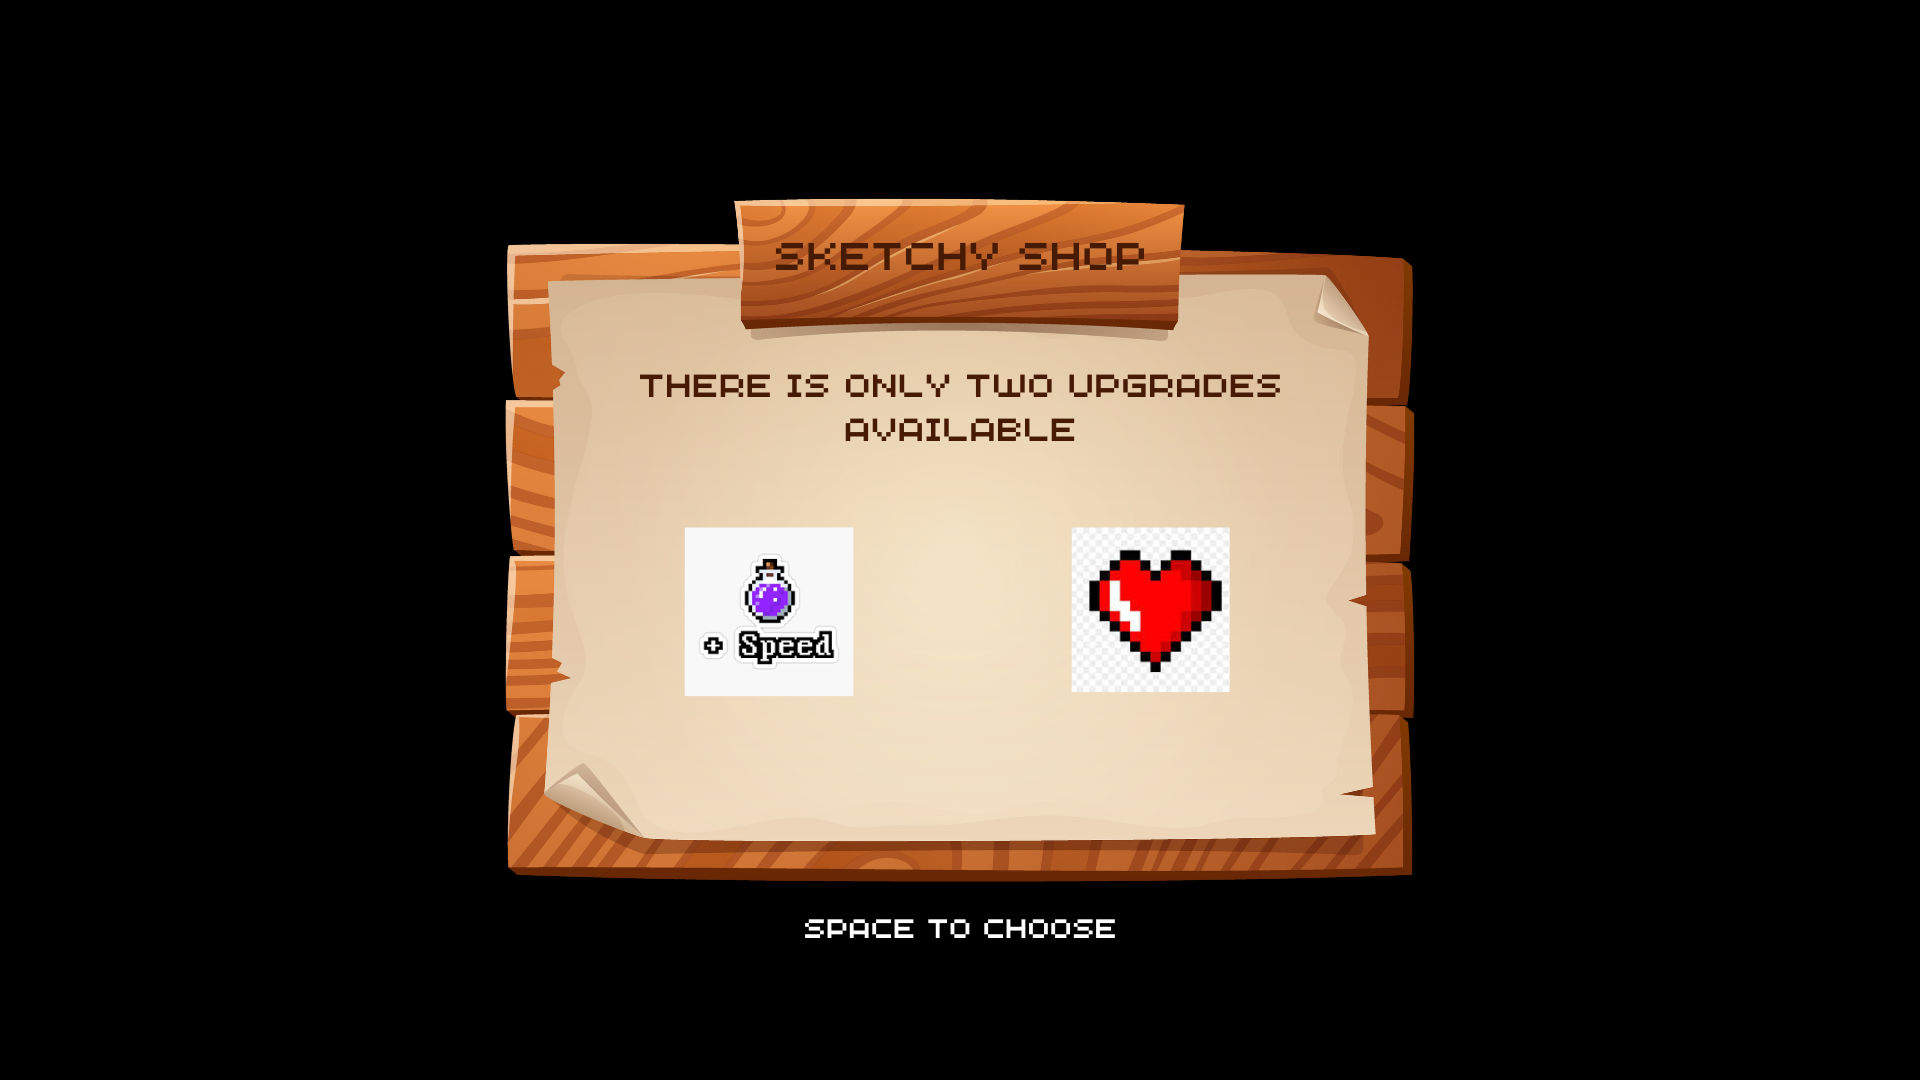
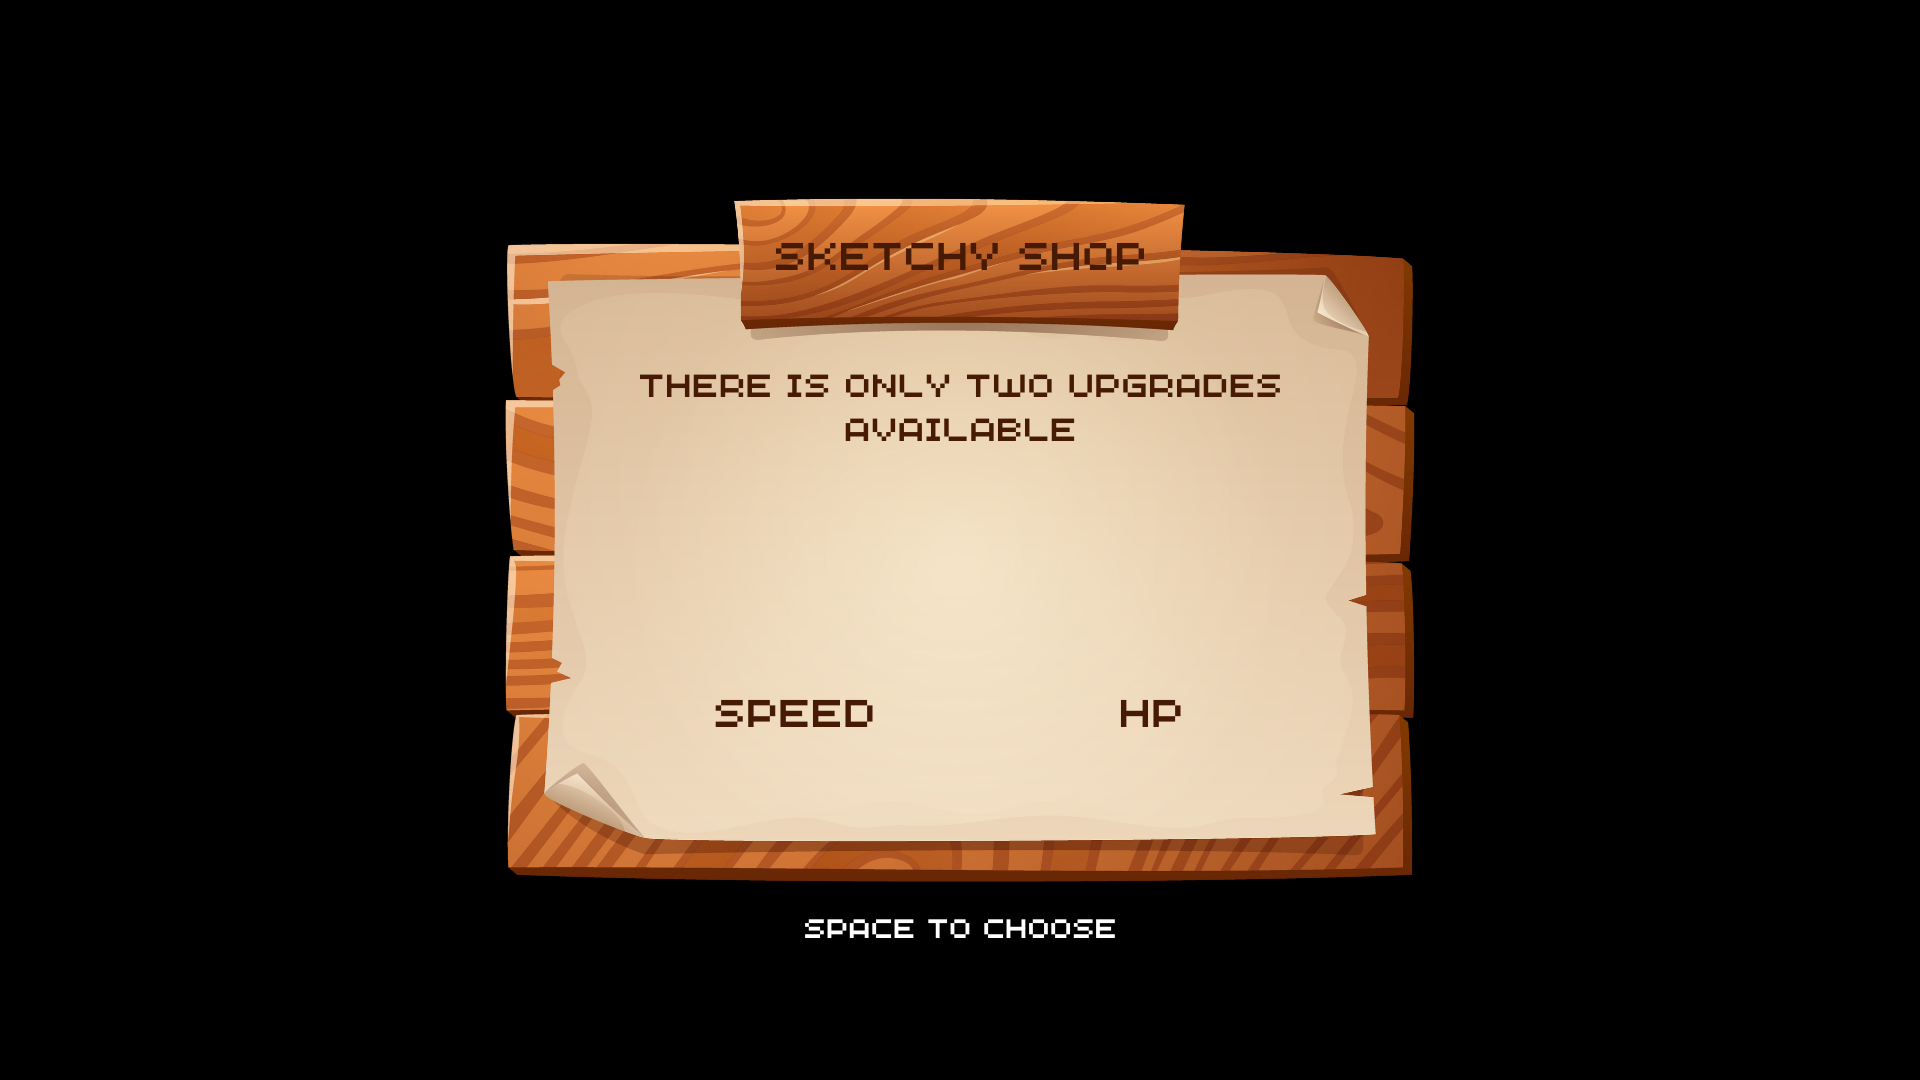
Made store menu and heart shop

Changed region(s): [[0.3438, 0.4889, 0.4688, 0.6722], [0.5312, 0.4889, 0.6562, 0.6722]]

diff --git a/play.py b/play.py
@@ -46,12 +46,17 @@ class Play():
         self.bg = self.assets["day"]
         self.sfx = game.sfx
         self.level = 0
+        self.upgrade_choice = 0
         self.store = False
+        self.store_state = "store"
+        self.store_addsub_heart = 0
+        self.store_clickcooldown = 20
         self.state = "game"
         self.profile = PlayerProfile(game)
         self.savetimer = 0
         self.reasonofdeath = None
         self.transition = 0
+        self.transition_timer = 0
         self.results = ""
         self.felltransition = 0
         self.play = False
@@ -62,6 +67,7 @@ class Play():
         self.shut = False
         self.respawn = False
         self.font = pygame.font.Font(self.game.font, 36)
+        self.font2 = pygame.font.Font(self.game.font, 50)
         self.deadmsg = ""
         self.death_msg = {
             "fall" : ["You ignored physics class", "You thought you were superman", "So this is the FALLEN angel?", "Just a reminder you're not a bird"],
@@ -368,7 +374,7 @@ class Play():
 
         self.mousepos = pygame.mouse.get_pos()
 
-        if not self.dead and not self.pause and not self.play:
+        if not self.dead and not self.pause and not self.play and not self.store:
             for event in pygame.event.get():
                 if event.type == pygame.QUIT:
                     pygame.quit()
@@ -396,6 +402,33 @@ class Play():
                     if event.key == pygame.K_e:
                         self.e = False
 
+        elif self.store:
+            for event in pygame.event.get():
+                if event.type == pygame.QUIT:
+                    pygame.quit()
+                    sys.exit()
+                if event.type == pygame.KEYDOWN:
+                    if event.key == pygame.K_ESCAPE:
+                        if self.store_state == "store":
+                            self.store = False
+                        elif self.store_state == "store_menu":
+                            self.store_state = "store"
+                        elif self.store_state == "store-heart":
+                            self.store_state = "store_menu"
+                                            
+                    if event.key == pygame.K_SPACE:
+                        if self.store_state == "store":
+                            self.store_state = "store_menu"
+
+                        elif self.store_state == "store_menu":
+                            if self.upgrade_choice == 0:
+                                self.store_state = "store-heart"
+
+                    if event.key == pygame.K_LEFT and self.store_state == "store_menu":
+                        self.upgrade_choice = (self.upgrade_choice - 1) % 2
+                            
+                    if event.key == pygame.K_RIGHT and self.store_state == "store_menu":
+                        self.upgrade_choice = (self.upgrade_choice + 1) % 2
         else:
             pygame.event.clear()
             self.movements = [False, False]
@@ -503,6 +536,15 @@ class Play():
             transition_surf.set_colorkey((255, 255, 255))
             self.display.blit(transition_surf, (0, 0))
 
+    def level_transition(self, timer, text):
+        if self.transition_timer < timer:
+            self.transition_timer += 1
+            img = pygame.Surface((1200, 675))
+            img.fill((0,0,0))
+            img.set_alpha(255-self.transition_timer/timer*255)
+            self.display.blit(img, (0,0))
+            render_text(text, self.font2, "white", 600, 300, self.display, centered=True, transparency=255)
+                
     def safehouse(self):
         if self.state == "safehouse":
             self.profile.data = self.player.data
@@ -512,22 +554,42 @@ class Play():
                 self.savetimer += 1
                 self.display.fill((0, 0, 0))
                 self.display.blit(self.assets["save"], (0, 0))
+    
             else:
-                render_text("welcome to the safehouse", self.font, "white", 600, 300, self.display, centered=True, transparency=255)
+                self.level_transition(200, "Welcome to the safehouse")
                 if self.store:
-                    self.display.fill((0, 0, 0))
-                    self.display.blit(self.assets["store"], (0, 0))
-                    self.display_store_menu()
+                    img = pygame.Surface((1200, 675))
+                    img.fill((0,0,0))
+                    img.set_alpha(150)
+                    self.display.blit(img, (0,0))
+                    self.display.blit(self.assets[self.store_state], (0, 0))
+                    if self.store_state == "store_menu":
+                        if self.upgrade_choice == 1:
+                            render_img(self.assets["speed_potion"], 490, 350, self.display, True)
+                            render_img(self.assets["big-heart"], 710, 350, self.display, True, transparency=150)
+                        
+                        elif self.upgrade_choice == 0:
+                            render_img(self.assets["speed_potion"], 490, 350, self.display, True, transparency=150)
+                            render_img(self.assets["big-heart"], 710, 350, self.display, True)
                     
-                    # Check for player interaction to open store menu
-                    if self.player.interact_with_npc():
-                        self.open_store()
-
-    def display_store_menu(self):
-        # Display the store options on the screen
-        self.display.blit(self.assets["store_menu"], (100, 100))  
-        self.display.blit(self.assets["speed_upgrade"], (150, 200))  
-        self.display.blit(self.assets["health_upgrade"], (150, 300))  
+                    # Store menu (Heart)
+                    if self.store_state == "store-heart":
+                        self.store_clickcooldown = max(0, self.store_clickcooldown - 1)
+                        if render_img(self.assets["+"], 500, 390, self.display, True, True) and self.store_clickcooldown == 0 and self.store_addsub_heart < 12:
+                            self.store_addsub_heart += 1
+                            self.store_clickcooldown = 20
+                        if render_img(self.assets["-"], 700, 390, self.display, True, True) and self.store_clickcooldown == 0 and self.store_addsub_heart > 0:
+                            self.store_addsub_heart -= 1
+                            self.store_clickcooldown = 20
+                        render_text(str(self.store_addsub_heart), self.font, "white", 600, 390, self.display, True)
+                        
+                        # Warn player about min and max hearts
+                        if self.store_addsub_heart >= 12:
+                            self.store_addsub_heart = 12
+                            render_text("Max hearts", self.font, "red", 600, 430, self.display, True)
+                        elif self.store_addsub_heart <= 0:
+                            self.store_addsub_heart = 0
+                            render_text("Min hearts", self.font, "red", 600, 430, self.display, True)
 
     def open_store(self):
         # Example prices for upgrades
@@ -560,6 +622,7 @@ class Play():
         if self.npc_name == "Store":
             self.store = True
             self.e = False
+        
         elif self.npc_name is not None:
             dialogue.dialogue(self, self.npc_name)
             self.e = False
@@ -567,7 +630,7 @@ class Play():
 
         # Pause button, if paused don't update the game
         self.check_button()
-        if not self.pause and not self.play:
+        if not self.pause and not self.play and not self.store:
             self.update()
         
         if self.pause:
@@ -578,3 +641,4 @@ class Play():
         self.userinput()
         self.transitions()
         self.safehouse()
+        

diff --git a/game.py b/game.py
@@ -22,7 +22,7 @@ class Game:
         self.clock = pygame.time.Clock()
         self.loaded = False
         self.particles = []
-        self.data = ["Ivan", "test", 1500, 1.5, 3]
+        self.data = ["Ivan", "test", 1500, 3, 3]
         # self.data = []
         self.sparks = []    
         self.projectiles = []
@@ -90,12 +90,16 @@ class Game:
             "profiledown": scale_images(load_image("button/profiledown.png"), scale= 0.5),
             "dialoguebox": scale_images(load_image("dialoguebox.png"), scale=0.6),
             "heart": scale_images(load_image("indicators/heart.png"), scale= 0.035),
+            "big-heart": scale_images(load_image("indicators/heart.png"), scale= 0.07),
             "speed": scale_images(load_image("indicators/speed.png"), scale= 0.035),
             "gold": scale_images(load_image("indicators/gold.png"), scale= 0.035),
             "store": scale_images(load_image("store.png"), set_scale=(1200, 675)),
             "store_menu": scale_images(load_image("store_menu.png"), set_scale=(1200, 675)),
             "speed_upgrade": scale_images(load_image("speed_upgrade.png"), set_scale=(1200, 675)),
-            "health_upgrade": scale_images(load_image("health_upgrade.png"), set_scale=(1200, 675)),
+            "store-heart": scale_images(load_image("store-heart.png"), set_scale=(1200, 675)),
+            "speed_potion": scale_images(load_image("indicators/speed_potion.png"), scale=0.25),
+            "+": scale_images(load_image("indicators/+.png"), scale=0.07),
+            "-": scale_images(load_image("indicators/-.png"), scale=0.07),
         }
 
         self.sfx = {
